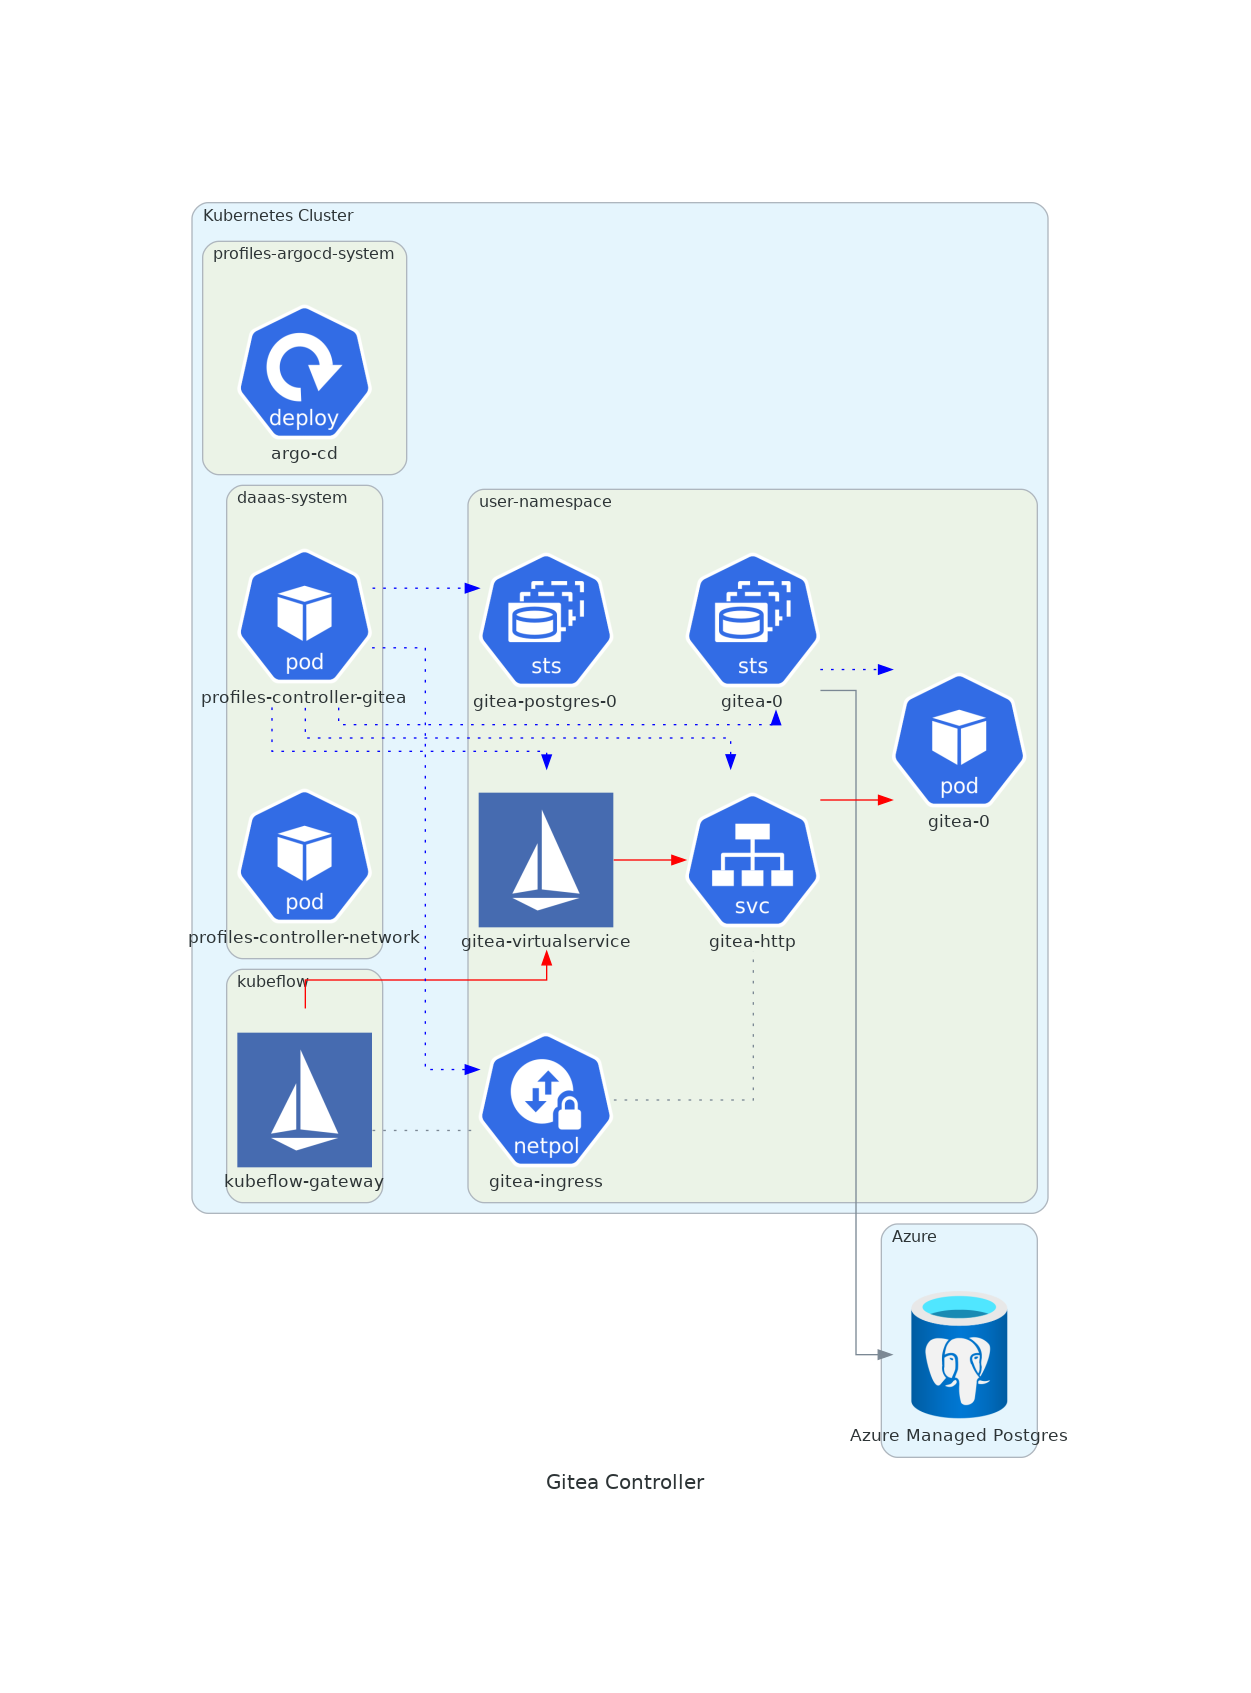
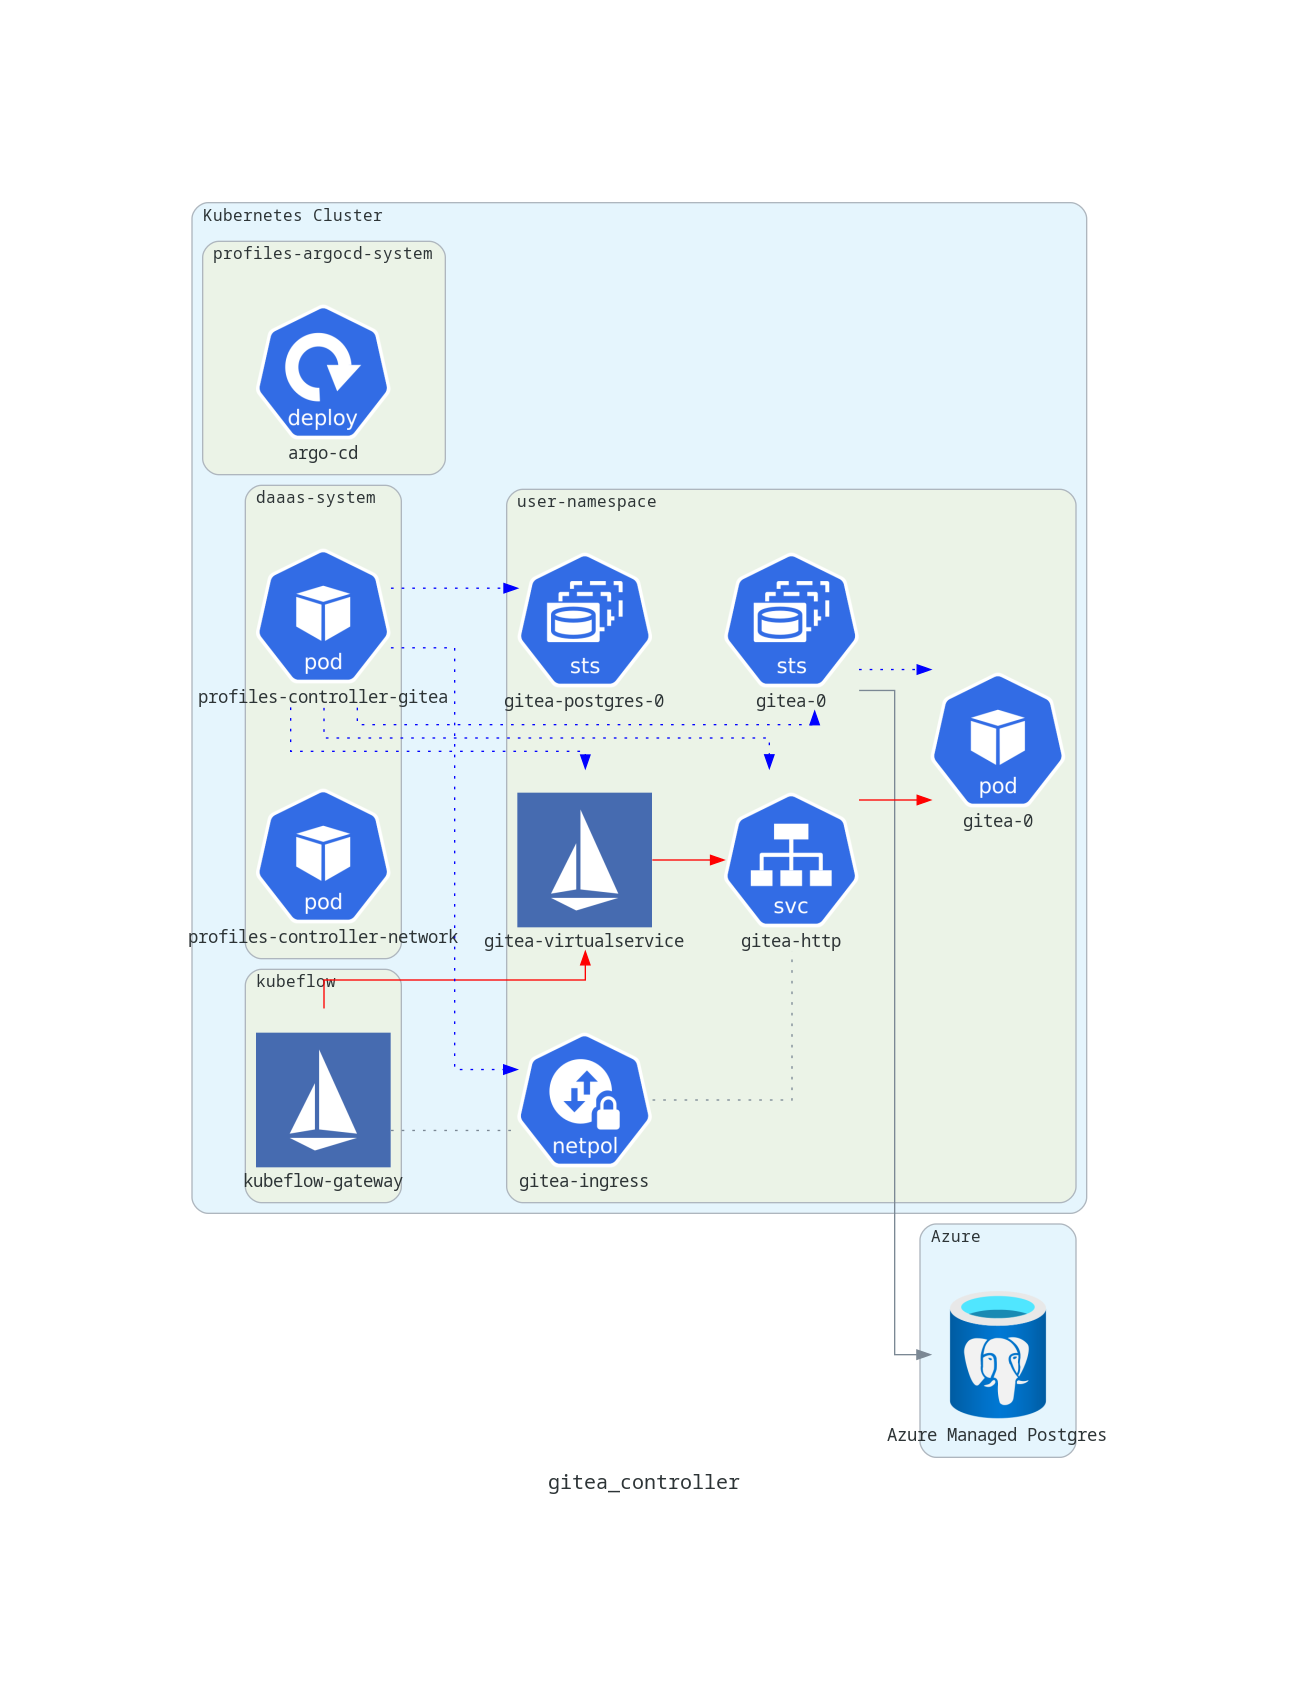
refactor(diagrams): organizational changes - Include Dockerfile to make environment easy to set up. - Include Makefile to create all images. - Include README with instructions

diff --git a/diagrams/gitea_controller.py b/diagrams/gitea_controller.py
@@ -1,3 +1,5 @@
+import os
+
 from diagrams import Cluster
 from diagrams import Diagram
 from diagrams import Edge
@@ -13,7 +15,14 @@ from diagrams.k8s.network import Service
 
 from diagrams.custom import Custom
 
-with Diagram("Gitea Controller", show=False):
+
+def myself() -> str:
+    f = os.path.basename(__file__)
+    no_ext = ".".join(f.split(".")[:-1])
+    return no_ext
+
+
+with Diagram(myself(), show=False):
     with Cluster("Azure"):
         postgres = DatabaseForPostgresqlServers("Azure Managed Postgres")
     with Cluster("Kubernetes Cluster"):

diff --git a/diagrams/README.md b/diagrams/README.md
@@ -1,0 +1,7 @@
+# Architecture Diagrams
+
+## How to Include Diagrams
+
+1. Include a `.py` file named after your feature that contains the contents of the architecture diagram. See [Diagrams documentation](https://diagrams.mingrammer.com/) for how to create diagrams as code.
+2. Run `make build` to build the docker image that includes graphviz and related python dependencies.
+3. Run `make run` to create all of the diagrams. The output diagrams will be saved to the `diagrams/` folder and can be referenced directly in the project `README`.
